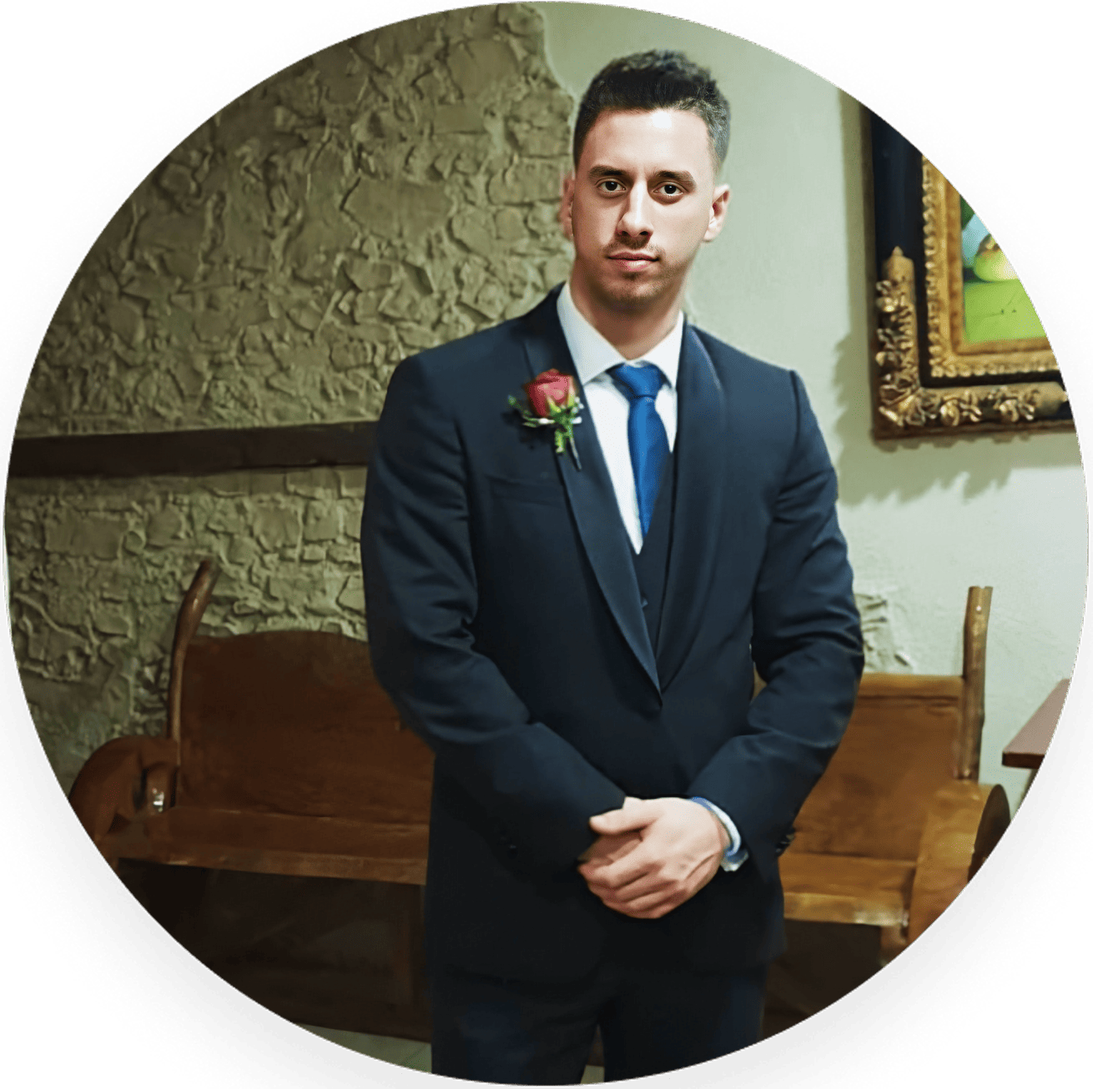
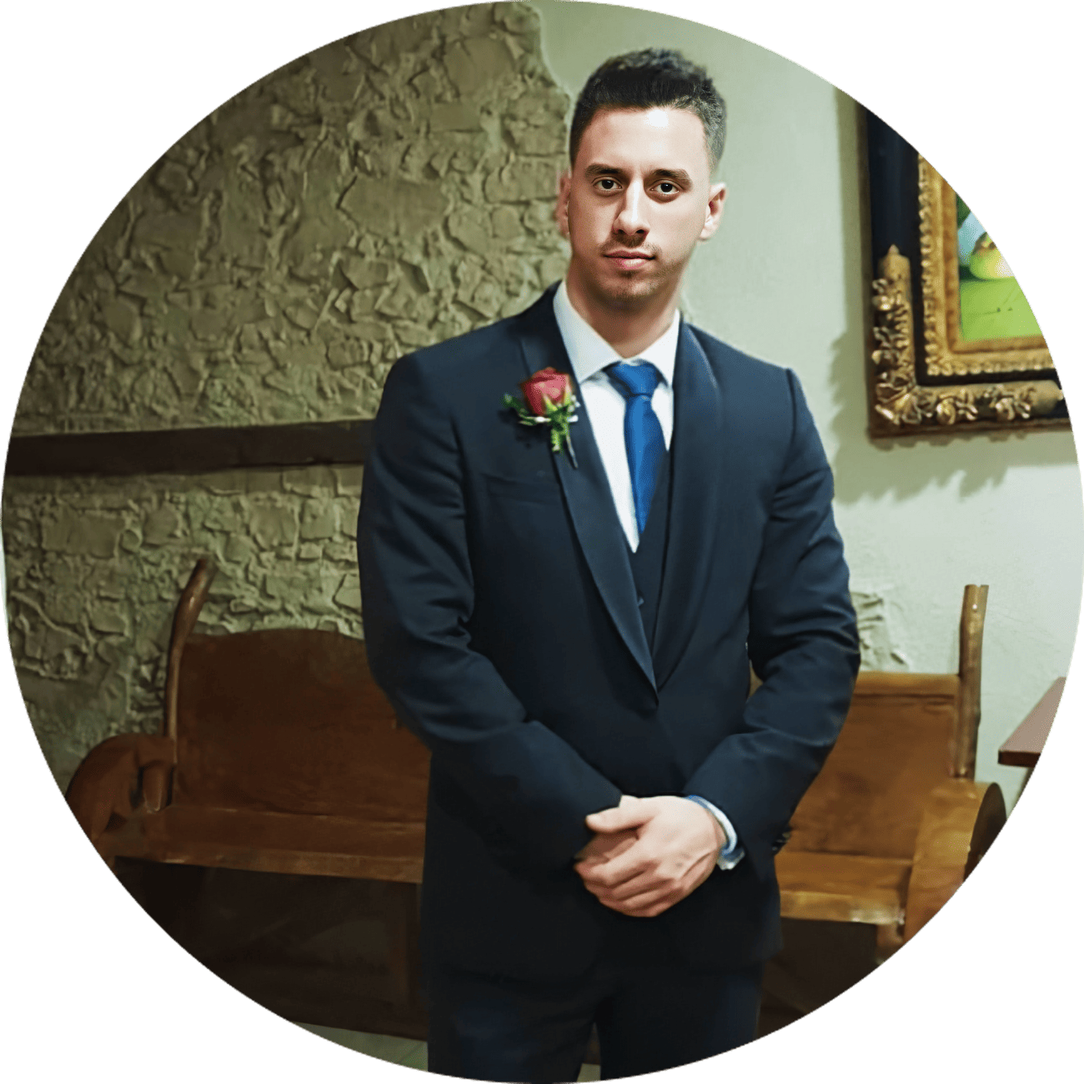
Fixed the photo shadow

diff --git a/css/css-formated/styles.css b/css/css-formated/styles.css
@@ -1,1 +1,1 @@
-::-webkit-scrollbar{width:10px;height:90%;background:#3f5e60;border-radius:20px;-webkit-border-radius:20px;-moz-border-radius:20px;-ms-border-radius:20px;-o-border-radius:20px}::-webkit-scrollbar-track{background:linear-gradient(to bottom, #314546 0%, rgba(63, 94, 96, 0.5058823529) 100%);border-radius:20px;-webkit-border-radius:20px;-moz-border-radius:20px;-ms-border-radius:20px;-o-border-radius:20px}::-webkit-scrollbar-thumb{background:#cfcfcf;border-radius:20px;-webkit-border-radius:20px;-moz-border-radius:20px;-ms-border-radius:20px;-o-border-radius:20px}*{margin:0;padding:0;box-sizing:border-box;-moz-box-sizing:border-box;-webkit-box-sizing:border-box}body{height:100vh;display:flex;flex-direction:column;justify-content:space-between;font-family:"Righteous",cursive;background:linear-gradient(to bottom left, #314546 0%, #3f5e60 50%, #8cb3b6 100%) no-repeat center center fixed;font-size:16px;font-weight:100}.stars-bg{z-index:-100;width:100%;height:100%;position:absolute;top:0;left:0}img{pointer-events:none}header{width:100%;z-index:20;background:linear-gradient(to left, #314647 0%, #3a5356 50%, #3d585b 75%, #405c5e 85%, #426264 100%);position:fixed;top:0;right:0}header nav{display:flex;flex-direction:row;justify-content:end;align-items:center;margin:8px 16px}header nav .desktop-menu{display:flex;justify-content:end;flex-wrap:wrap;list-style:none;gap:40px}header nav .desktop-menu li .current_page{cursor:default;color:#fff}header nav .desktop-menu li .current_page:hover{text-decoration:none}header nav .desktop-menu li a{font-size:20px;text-decoration:none;color:#b4b4b4}header nav .desktop-menu li a:hover{text-decoration:underline;color:#fff}header nav .desktop-menu li a:active{color:#fff;text-decoration:underline}header nav .mobile-menu{display:none;z-index:200;width:100%}header nav .mobile-menu .my-logo{height:20px}header nav .mobile-menu button{background:none;border:none;color:#fff;font-size:20px;cursor:pointer}header nav .mobile-menu .mobile-menu-items{width:18%;padding:8px 16px 24px 24px;display:none;position:absolute;right:0;top:0;display:flex;flex-direction:column;justify-content:space-between;gap:24px;list-style:none;border-radius:0 0 0 10px;-webkit-border-radius:0 0 0 10px;-moz-border-radius:0 0 0 10px;-ms-border-radius:0 0 0 10px;-o-border-radius:0 0 0 10px;background:#e1e1e1;transition:all .5s ease-in-out;-webkit-transition:all .5s ease-in-out;-moz-transition:all .5s ease-in-out;-ms-transition:all .5s ease-in-out;-o-transition:all .5s ease-in-out}header nav .mobile-menu .mobile-menu-items .close-button{color:#314546;font-size:20px;text-align:end;display:inline-block;margin:0;margin-bottom:-16px;padding:0}header nav .mobile-menu .mobile-menu-items .current_page{cursor:default;color:#314546}header nav .mobile-menu .mobile-menu-items .current_page:active{color:#314546}header nav .mobile-menu .mobile-menu-items .current_page:hover{text-decoration:none}header nav .mobile-menu .mobile-menu-items a{font-size:20px;text-decoration:none;color:rgba(45,64,65,.4941176471)}header nav .mobile-menu .mobile-menu-items a:hover{text-decoration:underline;color:#314546}header nav .mobile-menu .mobile-menu-items a:active{color:#fff;text-decoration:underline}header nav .mobile-menu .mobile-menu-items a:active{color:#314546}.main .galaxy-title-container{height:84vh;position:relative;width:100%;margin-bottom:48px;display:flex;flex-direction:row;justify-content:center}.main .galaxy-title-container .title-text{position:absolute;font-size:56px;font-weight:100;word-spacing:10px;transition:all .5s ease-in-out;-webkit-transition:all .5s ease-in-out;-moz-transition:all .5s ease-in-out;-ms-transition:all .5s ease-in-out;-o-transition:all .5s ease-in-out}.main .galaxy-title-container .welcome{left:0}.main .galaxy-title-container .universe{bottom:0;right:0}.main .galaxy-title-container .galaxy{width:50%;transition:all .5s ease-in-out;-webkit-transition:all .5s ease-in-out;-moz-transition:all .5s ease-in-out;-ms-transition:all .5s ease-in-out;-o-transition:all .5s ease-in-out}.main .trabajos-container{height:84vh;display:flex;flex-direction:column;justify-content:flex-start;align-items:center;margin-bottom:40px;font-family:"Righteous",cursive;color:#fff}.main .trabajos-container .trabajos-programacion-container h2,.main .trabajos-container .trabajos-diseno-container h2{font-size:36px;font-weight:100;margin-bottom:20px}.main .trabajos-container .trabajos-programacion-container .trabajos-programacion-row,.main .trabajos-container .trabajos-programacion-container .trabajos-diseno-row,.main .trabajos-container .trabajos-diseno-container .trabajos-programacion-row,.main .trabajos-container .trabajos-diseno-container .trabajos-diseno-row{display:grid;grid-template-columns:1fr 1fr 1fr 1fr;gap:40px;margin-bottom:24px}.main .trabajos-container .trabajos-programacion-container .trabajo,.main .trabajos-container .trabajos-diseno-container .trabajo{cursor:pointer;position:relative}.main .trabajos-container .trabajos-programacion-container .trabajo img,.main .trabajos-container .trabajos-diseno-container .trabajo img{width:22.5vw}.main .trabajos-container .trabajos-programacion-container .trabajo p,.main .trabajos-container .trabajos-diseno-container .trabajo p{color:#e1e1e1;margin:8px 0}.main .trabajos-container .trabajos-programacion-container .trabajo:hover .blur-mask,.main .trabajos-container .trabajos-diseno-container .trabajo:hover .blur-mask{width:100%;height:83.25%;position:absolute;top:0;left:0;background:rgba(75,75,75,.1019607843);border-radius:4%;-webkit-border-radius:4%;-moz-border-radius:4%;-ms-border-radius:4%;-o-border-radius:4%;filter:blur(10px);-webkit-filter:blur(10px)}.main .tarjeta{overflow:auto;display:none;position:fixed;top:auto;left:auto;width:45vw;height:90vh;padding:24px;border-radius:20px;-webkit-border-radius:20px;-moz-border-radius:20px;-ms-border-radius:20px;-o-border-radius:20px;background:linear-gradient(to bottom left, #314546 0%, #3f5e60 50%, #8cb3b6 100%);color:#cfcfcf;box-shadow:0 4px 40px rgba(255,255,255,.05);font-size:16px}.main .tarjeta h3{color:#e1e1e1;font-weight:500;margin-bottom:32px}.main .tarjeta .tarjeta-header{display:flex;flex-direction:row;justify-content:end;align-items:center}.main .tarjeta .tarjeta-header .tarjeta-close-btn{color:#e1e1e1;background:rgba(0,0,0,0);border:none;font-size:20px;cursor:pointer}.main .tarjeta .tarjeta-contenido{margin:24px 0;display:flex;flex-direction:column;gap:6vh}.main .tarjeta .tarjeta-contenido .fotos-tarjeta{display:flex;justify-content:center;align-items:center}.main .tarjeta .tarjeta-contenido .fotos-tarjeta img{width:80%}.main .tarjeta .tarjeta-contenido .logos-tiendas{display:flex;flex-direction:row;justify-content:center;align-items:center;gap:64px}.main .tarjeta .tarjeta-contenido .logos-tiendas img{height:50px}.main .contenido-central{height:80vh;width:100%;margin:0 0 64px 0;display:flex;justify-content:space-between;align-items:center;gap:20px}.main .contenido-central .bio{display:inline-block;width:30%;font-family:"Righteous",cursive;font-size:18px}.main .contenido-central .skills-container{width:30%;display:flex;flex-direction:column;gap:40px}.main .contenido-central .skills-container h2{font-weight:100;word-spacing:10px}.main .contenido-central .skills-container .skills{display:grid;grid-template-columns:1fr 1fr 1fr 1fr;gap:40px}.main .contenido-central .skills-container .skills img{height:75px;width:75px}.main .contenido-central .foto-start{display:none;margin-top:32px;width:70vw}.main .contenido-central .foto-middle{margin-top:64px;width:40%}.main .contact-container{height:84vh;display:flex;flex-direction:column;justify-content:center;align-items:center;font-family:"Righteous",cursive}.main .contact-container .contact-title{font-family:"Monoton",cursive;font-size:48px;font-weight:100;margin-bottom:8px;transition:all .5s ease-in-out;-webkit-transition:all .5s ease-in-out;-moz-transition:all .5s ease-in-out;-ms-transition:all .5s ease-in-out;-o-transition:all .5s ease-in-out}.main .contact-container .send-message{font-size:18px;margin-bottom:32px}.main .contact-container .contact-form{transition:all .5s ease-in-out;-webkit-transition:all .5s ease-in-out;-moz-transition:all .5s ease-in-out;-ms-transition:all .5s ease-in-out;-o-transition:all .5s ease-in-out;width:896px;display:grid;grid-template-columns:repeat(2, 1fr);gap:24px}.main .contact-container .contact-form label{font-size:20px;color:#fff}.main .contact-container .contact-form input,.main .contact-container .contact-form textarea{font-family:"Righteous",cursive;font-weight:100;font-size:20px;border-radius:10px;-webkit-border-radius:10px;-moz-border-radius:10px;-ms-border-radius:10px;-o-border-radius:10px;padding:8px 16px;border:none;outline:none;background:#d9d9d9}.main .contact-container .contact-form input::-moz-placeholder, .main .contact-container .contact-form textarea::-moz-placeholder{color:#8d8d8d}.main .contact-container .contact-form input:-ms-input-placeholder, .main .contact-container .contact-form textarea:-ms-input-placeholder{color:#8d8d8d}.main .contact-container .contact-form input::placeholder,.main .contact-container .contact-form textarea::placeholder{color:#8d8d8d}.main .contact-container .contact-form textarea::-webkit-scrollbar-corner{display:none}.main .contact-container .contact-form textarea::-webkit-resizer{border-radius:0 0 10px 0;-webkit-border-radius:0 0 10px 0;-moz-border-radius:0 0 10px 0;-ms-border-radius:0 0 10px 0;-o-border-radius:0 0 10px 0;background:#d9d9d9}.main .contact-container .contact-form textarea::-webkit-scrollbar{width:10px;height:90%;background:#d9d9d9;border-radius:20px;-webkit-border-radius:20px;-moz-border-radius:20px;-ms-border-radius:20px;-o-border-radius:20px}.main .contact-container .contact-form textarea::-webkit-scrollbar-track{background:#cfcfcf;border-radius:20px;-webkit-border-radius:20px;-moz-border-radius:20px;-ms-border-radius:20px;-o-border-radius:20px}.main .contact-container .contact-form textarea::-webkit-scrollbar-thumb{background:linear-gradient(to bottom, #314546 0%, rgba(63, 94, 96, 0.5058823529) 100%);border-radius:20px;-webkit-border-radius:20px;-moz-border-radius:20px;-ms-border-radius:20px;-o-border-radius:20px}.main .contact-container .contact-form .input-name,.main .contact-container .contact-form .input-email,.main .contact-container .contact-form .input-message{width:436px;display:flex;flex-direction:column;gap:16px}.main .contact-container .contact-form .input-message{grid-column:span 2}.main .contact-container .contact-form .input-message textarea{min-width:896px;max-width:896px;min-height:256px;max-height:256px}.main .contact-container .contact-form .error-name,.main .contact-container .contact-form .error-email{display:none;font-size:18px;margin:0}.main .contact-container .contact-form .error-message{display:none;grid-column:span 2;font-size:18px;margin:0}.main .contact-container .contact-form .btn-submit{display:flex;justify-content:center;align-items:center;margin:16px auto;width:232px;height:48px;grid-column:span 2;background:#c8b160;color:#424242;font-size:20px;border-radius:10px;-webkit-border-radius:10px;-moz-border-radius:10px;-ms-border-radius:10px;-o-border-radius:10px;cursor:pointer;-webkit-touch-callout:none;-webkit-user-select:none;-moz-user-select:none;-ms-user-select:none;user-select:none}.main .contact-container .contact-form .btn-submit:hover{background:#b8a358}.main .contact-container .contact-popup{position:absolute;top:auto;left:auto;width:30%;height:25%;padding:32px;border-radius:10px;-webkit-border-radius:10px;-moz-border-radius:10px;-ms-border-radius:10px;-o-border-radius:10px;background:#d9d9d9;box-shadow:0 4px 20px rgba(0,0,0,.2)}.main .contact-container .contact-popup p{color:#314546;font-size:24px}.main .contact-container .contact-popup i{position:absolute;bottom:24px;left:calc(50% - 24px);color:#298a29;font-size:48px}.main .links-container .title{margin-left:24px;font-size:56px;font-weight:100;transition:all .5s ease-in-out;-webkit-transition:all .5s ease-in-out;-moz-transition:all .5s ease-in-out;-ms-transition:all .5s ease-in-out;-o-transition:all .5s ease-in-out}.main .links-container .links{transition:all .5s ease-in-out;-webkit-transition:all .5s ease-in-out;-moz-transition:all .5s ease-in-out;-ms-transition:all .5s ease-in-out;-o-transition:all .5s ease-in-out;width:512px;height:75vh;margin:0 auto;padding:40px;display:flex;flex-direction:column;justify-content:center;align-items:center;gap:32px;font-family:"Righteous",cursive;font-size:24px}.main .links-container .links .link{display:flex;flex-direction:row;justify-content:space-between;width:100%}.main .links-container .links .link a{color:#fff;text-decoration:none;text-shadow:0px 4px 4px rgba(0,0,0,.25)}.main .links-container .links .link a:hover{text-decoration:underline}.main .links-container .links .link i{font-size:32px;color:#fff}.main .links-container .links .link .fa-instagram{font-size:36px}.main{margin:64px 20px 0 20px;font-family:"Monoton",cursive;color:#b4b4b4;font-size:24px;letter-spacing:1px}footer{margin:0 16px 16px 16px;display:flex;flex-direction:row;justify-content:space-between;position:relative;bottom:0;color:#e1e1e1;transition:all .5s ease-in-out;-webkit-transition:all .5s ease-in-out;-moz-transition:all .5s ease-in-out;-ms-transition:all .5s ease-in-out;-o-transition:all .5s ease-in-out}footer .my-logo{height:20px}@media screen and (max-width: 1450px){.main .galaxy{width:60%}.main .trabajos-container{height:auto}.main .trabajos-container .trabajos-programacion-container .trabajos-programacion-row,.main .trabajos-container .trabajos-programacion-container .trabajos-diseno-row,.main .trabajos-container .trabajos-diseno-container .trabajos-programacion-row,.main .trabajos-container .trabajos-diseno-container .trabajos-diseno-row{display:grid;grid-template-columns:repeat(2, 1fr);gap:20px}.main .trabajos-container .trabajos-programacion-container .trabajos-programacion-row .trabajo img,.main .trabajos-container .trabajos-programacion-container .trabajos-diseno-row .trabajo img,.main .trabajos-container .trabajos-diseno-container .trabajos-programacion-row .trabajo img,.main .trabajos-container .trabajos-diseno-container .trabajos-diseno-row .trabajo img{width:45vw;margin-bottom:0}.main .trabajos-container .trabajos-programacion-container .trabajos-programacion-row .trabajo p,.main .trabajos-container .trabajos-programacion-container .trabajos-diseno-row .trabajo p,.main .trabajos-container .trabajos-diseno-container .trabajos-programacion-row .trabajo p,.main .trabajos-container .trabajos-diseno-container .trabajos-diseno-row .trabajo p{font-size:16px}.main .trabajos-container .trabajos-programacion-container h2,.main .trabajos-container .trabajos-diseno-container h2{font-size:28px}.main .contenido-central .skills-container .skills{display:grid;grid-template-columns:repeat(2, 1fr)}}@media screen and (max-width: 1250px){.main .title-text{font-size:44px}.main .galaxy{width:70%}.main .tarjeta{width:50vw;height:85vh}.main .contenido-central .bio{font-size:16px}.main .contenido-central .skills-container .skills{display:grid;grid-template-columns:repeat(2, 1fr)}.main .contenido-central .skills-container .skills img{width:50px;height:50px}}@media screen and (max-width: 1150px){.main .contact-container .contact-popup{width:40%}}@media screen and (max-width: 1100px){.main .galaxy{width:60%}.main .tarjeta{width:60vw;height:82vh}.main .contenido-central{height:auto;display:flex;flex-direction:column}.main .contenido-central .bio{width:auto;font-size:14px;margin-bottom:40px}.main .contenido-central .skills-container{width:auto;gap:20px}.main .contenido-central .skills-container .skills{display:grid;grid-template-columns:repeat(7, 1fr)}.main .contenido-central .skills-container .skills img{width:50px;height:50px}.main .contenido-central .foto-start{display:block}.main .contenido-central .foto-middle{display:none}}@media screen and (max-width: 900px){.main .contact-container .contact-popup{width:50%}}@media screen and (max-width: 950px){.main .contact-container{height:auto;width:100%;display:flex;flex-direction:column;justify-content:center;align-items:center}.main .contact-container .contact-form{width:100%;margin:0 auto;grid-template-columns:1fr}.main .contact-container .contact-form .input-name,.main .contact-container .contact-form .input-email{width:auto;grid-column:span 2}.main .contact-container .contact-form .input-message{width:auto;grid-column:span 2}.main .contact-container .contact-form .input-message textarea{min-width:100%;max-width:100%;min-height:256px;max-height:256px}}@media screen and (max-width: 850px){header nav .desktop-menu{display:none}header nav .mobile-menu{display:flex;flex-direction:row;justify-content:space-between}header nav .mobile-menu .mobile-menu-button{display:block}header nav .mobile-menu .mobile-menu-items{display:none}.main .galaxy-title-container .galaxy{width:80%}.main .galaxy-title-container .title-text{font-size:20px}.main .trabajos-container .trabajos-programacion-container .trabajos-programacion-row,.main .trabajos-container .trabajos-programacion-container .trabajos-diseno-row,.main .trabajos-container .trabajos-diseno-container .trabajos-programacion-row,.main .trabajos-container .trabajos-diseno-container .trabajos-diseno-row{display:grid;grid-template-columns:1fr;gap:20px}.main .trabajos-container .trabajos-programacion-container .trabajos-programacion-row .trabajo img,.main .trabajos-container .trabajos-programacion-container .trabajos-diseno-row .trabajo img,.main .trabajos-container .trabajos-diseno-container .trabajos-programacion-row .trabajo img,.main .trabajos-container .trabajos-diseno-container .trabajos-diseno-row .trabajo img{width:85vw;margin-bottom:0}.main .tarjeta{width:70vw;height:77vh;font-size:16px}.main .tarjeta h3{font-size:18px}.main .tarjeta .tarjeta-contenido .fotos-tarjeta{display:flex;justify-content:center;align-items:center}.main .tarjeta .tarjeta-contenido .fotos-tarjeta img{width:90%}.main .tarjeta .tarjeta-contenido .logos-tiendas img{height:40px}.main .contenido-central{display:flex;flex-direction:column}.main .contenido-central .bio{width:90%;font-size:14px;margin-bottom:40px}.main .contenido-central .skills-container{gap:20px}.main .contenido-central .skills-container .skills{display:grid;grid-template-columns:repeat(7, 1fr)}.main .contenido-central .skills-container .skills img{width:50px;height:50px}.main .contenido-central .foto-start{display:block}.main .contenido-central .foto-middle{display:none}footer p{font-size:12px}footer .my-logo{display:none}}@media screen and (max-width: 750px){header nav .mobile-menu .mobile-menu-items{width:20%}}@media screen and (max-width: 700px){.main .contact-container .contact-popup{width:60%}}@media screen and (max-width: 650px){header nav .mobile-menu .mobile-menu-items{width:24%}.main .title-text{font-size:32px}.main .tarjeta .tarjeta-contenido .fotos-tarjeta img{width:110%}.main .contenido-central .skills-container .skills{grid-template-columns:repeat(4, 1fr)}.main .contact-container .contact-title{font-size:32px}.main .contact-container p{font-size:16px;margin-bottom:16px}.main .contact-container .contact-form label{font-size:16px}.main .contact-container .contact-form input::-moz-placeholder, .main .contact-container .contact-form textarea::-moz-placeholder{font-size:16px}.main .contact-container .contact-form input:-ms-input-placeholder, .main .contact-container .contact-form textarea:-ms-input-placeholder{font-size:16px}.main .contact-container .contact-form input::placeholder,.main .contact-container .contact-form textarea::placeholder{font-size:16px}.main .contact-container .contact-form .btn-submit{font-size:16px;align-items:flex-end}.main .contact-container .contact-popup p{font-size:20px}}@media screen and (max-width: 550px){header nav .mobile-menu .mobile-menu-items{width:28%}.main .links-container .title{margin-left:0;text-align:center;font-size:40px}.main .links-container .links{width:100%;padding:24px;gap:48px;font-size:16px}.main .links-container .links .link i{font-size:18px;color:#fff}.main .links-container .links .link .fa-instagram{font-size:22px}}@media screen and (max-width: 450px){::-webkit-scrollbar{border-radius:20px;-webkit-border-radius:20px;-moz-border-radius:20px;-ms-border-radius:20px;-o-border-radius:20px}header nav .mobile-menu .mobile-menu-items{width:32%}header nav .mobile-menu .mobile-menu-items a{font-size:18px}.main .galaxy{width:90%}.main .title-text{margin:24px 0;font-size:24px}.main .trabajos-container ::-webkit-scrollbar{display:none}.main .contenido-central .skills-container .skills{grid-template-columns:repeat(2, 1fr)}.main .contact-container .send-message{font-size:10px}.main .contact-container .contact-form label{font-size:px}.main .contact-container .contact-form input,.main .contact-container .contact-form textarea{font-size:16px}.main .contact-container .contact-form .input-name p,.main .contact-container .contact-form .input-email p,.main .contact-container .contact-form .input-message p{font-size:12px;margin:0}.main .contact-container .contact-form .error-name,.main .contact-container .contact-form .error-email,.main .contact-container .contact-form .error-message{font-size:12px;margin:0}.main .contact-container .contact-popup{height:20%}.main .contact-container .contact-popup p{font-size:16px}.main .contact-container .contact-popup i{left:calc(50% - 16px);font-size:32px}footer p{font-size:10px}}
+::-webkit-scrollbar{width:10px;height:90%;background:#3f5e60;border-radius:20px;-webkit-border-radius:20px;-moz-border-radius:20px;-ms-border-radius:20px;-o-border-radius:20px}::-webkit-scrollbar-track{background:linear-gradient(to bottom, #314546 0%, rgba(63, 94, 96, 0.5058823529) 100%);border-radius:20px;-webkit-border-radius:20px;-moz-border-radius:20px;-ms-border-radius:20px;-o-border-radius:20px}::-webkit-scrollbar-thumb{background:#cfcfcf;border-radius:20px;-webkit-border-radius:20px;-moz-border-radius:20px;-ms-border-radius:20px;-o-border-radius:20px}*{margin:0;padding:0;box-sizing:border-box;-moz-box-sizing:border-box;-webkit-box-sizing:border-box}body{height:100vh;display:flex;flex-direction:column;justify-content:space-between;font-family:"Righteous",cursive;background:linear-gradient(to bottom left, #314546 0%, #3f5e60 50%, #8cb3b6 100%) no-repeat center center fixed;font-size:16px;font-weight:100}.stars-bg{z-index:-100;width:100%;height:100%;position:absolute;top:0;left:0}img{pointer-events:none}header{width:100%;z-index:20;background:linear-gradient(to left, #314647 0%, #3a5356 50%, #3d585b 75%, #405c5e 85%, #426264 100%);position:fixed;top:0;right:0}header nav{display:flex;flex-direction:row;justify-content:end;align-items:center;margin:8px 16px}header nav .desktop-menu{display:flex;justify-content:end;flex-wrap:wrap;list-style:none;gap:40px}header nav .desktop-menu li .current_page{cursor:default;color:#fff}header nav .desktop-menu li .current_page:hover{text-decoration:none}header nav .desktop-menu li a{font-size:20px;text-decoration:none;color:#b4b4b4}header nav .desktop-menu li a:hover{text-decoration:underline;color:#fff}header nav .desktop-menu li a:active{color:#fff;text-decoration:underline}header nav .mobile-menu{display:none;z-index:200;width:100%}header nav .mobile-menu .my-logo{height:20px}header nav .mobile-menu button{background:none;border:none;color:#fff;font-size:20px;cursor:pointer}header nav .mobile-menu .mobile-menu-items{width:18%;padding:8px 16px 24px 24px;display:none;position:absolute;right:0;top:0;display:flex;flex-direction:column;justify-content:space-between;gap:24px;list-style:none;border-radius:0 0 0 10px;-webkit-border-radius:0 0 0 10px;-moz-border-radius:0 0 0 10px;-ms-border-radius:0 0 0 10px;-o-border-radius:0 0 0 10px;background:#e1e1e1;transition:all .5s ease-in-out;-webkit-transition:all .5s ease-in-out;-moz-transition:all .5s ease-in-out;-ms-transition:all .5s ease-in-out;-o-transition:all .5s ease-in-out}header nav .mobile-menu .mobile-menu-items .close-button{color:#314546;font-size:20px;text-align:end;display:inline-block;margin:0;margin-bottom:-16px;padding:0}header nav .mobile-menu .mobile-menu-items .current_page{cursor:default;color:#314546}header nav .mobile-menu .mobile-menu-items .current_page:active{color:#314546}header nav .mobile-menu .mobile-menu-items .current_page:hover{text-decoration:none}header nav .mobile-menu .mobile-menu-items a{font-size:20px;text-decoration:none;color:rgba(45,64,65,.4941176471)}header nav .mobile-menu .mobile-menu-items a:hover{text-decoration:underline;color:#314546}header nav .mobile-menu .mobile-menu-items a:active{color:#fff;text-decoration:underline}header nav .mobile-menu .mobile-menu-items a:active{color:#314546}.main .galaxy-title-container{height:84vh;position:relative;width:100%;margin-bottom:48px;display:flex;flex-direction:row;justify-content:center}.main .galaxy-title-container .title-text{position:absolute;font-size:56px;font-weight:100;word-spacing:10px;transition:all .5s ease-in-out;-webkit-transition:all .5s ease-in-out;-moz-transition:all .5s ease-in-out;-ms-transition:all .5s ease-in-out;-o-transition:all .5s ease-in-out}.main .galaxy-title-container .welcome{left:0}.main .galaxy-title-container .universe{bottom:0;right:0}.main .galaxy-title-container .galaxy{width:50%;transition:all .5s ease-in-out;-webkit-transition:all .5s ease-in-out;-moz-transition:all .5s ease-in-out;-ms-transition:all .5s ease-in-out;-o-transition:all .5s ease-in-out}.main .trabajos-container{height:84vh;display:flex;flex-direction:column;justify-content:flex-start;align-items:center;margin-bottom:40px;font-family:"Righteous",cursive;color:#fff}.main .trabajos-container .trabajos-programacion-container h2,.main .trabajos-container .trabajos-diseno-container h2{font-size:36px;font-weight:100;margin-bottom:20px}.main .trabajos-container .trabajos-programacion-container .trabajos-programacion-row,.main .trabajos-container .trabajos-programacion-container .trabajos-diseno-row,.main .trabajos-container .trabajos-diseno-container .trabajos-programacion-row,.main .trabajos-container .trabajos-diseno-container .trabajos-diseno-row{display:grid;grid-template-columns:1fr 1fr 1fr 1fr;gap:40px;margin-bottom:24px}.main .trabajos-container .trabajos-programacion-container .trabajo,.main .trabajos-container .trabajos-diseno-container .trabajo{cursor:pointer;position:relative}.main .trabajos-container .trabajos-programacion-container .trabajo img,.main .trabajos-container .trabajos-diseno-container .trabajo img{width:22.5vw}.main .trabajos-container .trabajos-programacion-container .trabajo p,.main .trabajos-container .trabajos-diseno-container .trabajo p{color:#e1e1e1;margin:8px 0}.main .trabajos-container .trabajos-programacion-container .trabajo:hover .blur-mask,.main .trabajos-container .trabajos-diseno-container .trabajo:hover .blur-mask{width:100%;height:83.25%;position:absolute;top:0;left:0;background:rgba(75,75,75,.1019607843);border-radius:4%;-webkit-border-radius:4%;-moz-border-radius:4%;-ms-border-radius:4%;-o-border-radius:4%;filter:blur(10px);-webkit-filter:blur(10px)}.main .tarjeta{overflow:auto;display:none;position:fixed;top:auto;left:auto;width:45vw;height:90vh;padding:24px;border-radius:20px;-webkit-border-radius:20px;-moz-border-radius:20px;-ms-border-radius:20px;-o-border-radius:20px;background:linear-gradient(to bottom left, #314546 0%, #3f5e60 50%, #8cb3b6 100%);color:#cfcfcf;box-shadow:0 4px 40px rgba(255,255,255,.05);font-size:16px}.main .tarjeta h3{color:#e1e1e1;font-weight:500;margin-bottom:32px}.main .tarjeta .tarjeta-header{display:flex;flex-direction:row;justify-content:end;align-items:center}.main .tarjeta .tarjeta-header .tarjeta-close-btn{color:#e1e1e1;background:rgba(0,0,0,0);border:none;font-size:20px;cursor:pointer}.main .tarjeta .tarjeta-contenido{margin:24px 0;display:flex;flex-direction:column;gap:6vh}.main .tarjeta .tarjeta-contenido .fotos-tarjeta{display:flex;justify-content:center;align-items:center}.main .tarjeta .tarjeta-contenido .fotos-tarjeta img{width:80%}.main .tarjeta .tarjeta-contenido .logos-tiendas{display:flex;flex-direction:row;justify-content:center;align-items:center;gap:64px}.main .tarjeta .tarjeta-contenido .logos-tiendas img{height:50px}.main .contenido-central{height:80vh;width:100%;margin:0 0 64px 0;display:flex;justify-content:space-between;align-items:center;gap:20px}.main .contenido-central .bio{display:inline-block;width:30%;font-family:"Righteous",cursive;font-size:18px}.main .contenido-central .skills-container{width:30%;display:flex;flex-direction:column;gap:40px}.main .contenido-central .skills-container h2{font-weight:100;word-spacing:10px}.main .contenido-central .skills-container .skills{display:grid;grid-template-columns:1fr 1fr 1fr 1fr;gap:40px}.main .contenido-central .skills-container .skills img{height:75px;width:75px}.main .contenido-central .foto-start{display:none;margin-top:32px;width:70vw}.main .contenido-central .foto-middle{margin-top:64px;width:40%;box-shadow:0 25px 50px rgba(0,0,0,.1);border-radius:50%;-webkit-border-radius:50%;-moz-border-radius:50%;-ms-border-radius:50%;-o-border-radius:50%}.main .contact-container{height:84vh;display:flex;flex-direction:column;justify-content:center;align-items:center;font-family:"Righteous",cursive}.main .contact-container .contact-title{font-family:"Monoton",cursive;font-size:48px;font-weight:100;margin-bottom:8px;transition:all .5s ease-in-out;-webkit-transition:all .5s ease-in-out;-moz-transition:all .5s ease-in-out;-ms-transition:all .5s ease-in-out;-o-transition:all .5s ease-in-out}.main .contact-container .send-message{font-size:18px;margin-bottom:32px}.main .contact-container .contact-form{transition:all .5s ease-in-out;-webkit-transition:all .5s ease-in-out;-moz-transition:all .5s ease-in-out;-ms-transition:all .5s ease-in-out;-o-transition:all .5s ease-in-out;width:896px;display:grid;grid-template-columns:repeat(2, 1fr);gap:24px}.main .contact-container .contact-form label{font-size:20px;color:#fff}.main .contact-container .contact-form input,.main .contact-container .contact-form textarea{font-family:"Righteous",cursive;font-weight:100;font-size:20px;border-radius:10px;-webkit-border-radius:10px;-moz-border-radius:10px;-ms-border-radius:10px;-o-border-radius:10px;padding:8px 16px;border:none;outline:none;background:#d9d9d9}.main .contact-container .contact-form input::-moz-placeholder, .main .contact-container .contact-form textarea::-moz-placeholder{color:#8d8d8d}.main .contact-container .contact-form input:-ms-input-placeholder, .main .contact-container .contact-form textarea:-ms-input-placeholder{color:#8d8d8d}.main .contact-container .contact-form input::placeholder,.main .contact-container .contact-form textarea::placeholder{color:#8d8d8d}.main .contact-container .contact-form textarea::-webkit-scrollbar-corner{display:none}.main .contact-container .contact-form textarea::-webkit-resizer{border-radius:0 0 10px 0;-webkit-border-radius:0 0 10px 0;-moz-border-radius:0 0 10px 0;-ms-border-radius:0 0 10px 0;-o-border-radius:0 0 10px 0;background:#d9d9d9}.main .contact-container .contact-form textarea::-webkit-scrollbar{width:10px;height:90%;background:#d9d9d9;border-radius:20px;-webkit-border-radius:20px;-moz-border-radius:20px;-ms-border-radius:20px;-o-border-radius:20px}.main .contact-container .contact-form textarea::-webkit-scrollbar-track{background:#cfcfcf;border-radius:20px;-webkit-border-radius:20px;-moz-border-radius:20px;-ms-border-radius:20px;-o-border-radius:20px}.main .contact-container .contact-form textarea::-webkit-scrollbar-thumb{background:linear-gradient(to bottom, #314546 0%, rgba(63, 94, 96, 0.5058823529) 100%);border-radius:20px;-webkit-border-radius:20px;-moz-border-radius:20px;-ms-border-radius:20px;-o-border-radius:20px}.main .contact-container .contact-form .input-name,.main .contact-container .contact-form .input-email,.main .contact-container .contact-form .input-message{width:436px;display:flex;flex-direction:column;gap:16px}.main .contact-container .contact-form .input-message{grid-column:span 2}.main .contact-container .contact-form .input-message textarea{min-width:896px;max-width:896px;min-height:256px;max-height:256px}.main .contact-container .contact-form .error-name,.main .contact-container .contact-form .error-email{display:none;font-size:18px;margin:0}.main .contact-container .contact-form .error-message{display:none;grid-column:span 2;font-size:18px;margin:0}.main .contact-container .contact-form .btn-submit{display:flex;justify-content:center;align-items:center;margin:16px auto;width:232px;height:48px;grid-column:span 2;background:#c8b160;color:#424242;font-size:20px;border-radius:10px;-webkit-border-radius:10px;-moz-border-radius:10px;-ms-border-radius:10px;-o-border-radius:10px;cursor:pointer;-webkit-touch-callout:none;-webkit-user-select:none;-moz-user-select:none;-ms-user-select:none;user-select:none}.main .contact-container .contact-form .btn-submit:hover{background:#b8a358}.main .contact-container .contact-popup{position:absolute;top:auto;left:auto;width:30%;height:25%;padding:32px;border-radius:10px;-webkit-border-radius:10px;-moz-border-radius:10px;-ms-border-radius:10px;-o-border-radius:10px;background:#d9d9d9;box-shadow:0 4px 20px rgba(0,0,0,.2)}.main .contact-container .contact-popup p{color:#314546;font-size:24px}.main .contact-container .contact-popup i{position:absolute;bottom:24px;left:calc(50% - 24px);color:#298a29;font-size:48px}.main .links-container .title{margin-left:24px;font-size:56px;font-weight:100;transition:all .5s ease-in-out;-webkit-transition:all .5s ease-in-out;-moz-transition:all .5s ease-in-out;-ms-transition:all .5s ease-in-out;-o-transition:all .5s ease-in-out}.main .links-container .links{transition:all .5s ease-in-out;-webkit-transition:all .5s ease-in-out;-moz-transition:all .5s ease-in-out;-ms-transition:all .5s ease-in-out;-o-transition:all .5s ease-in-out;width:512px;height:75vh;margin:0 auto;padding:40px;display:flex;flex-direction:column;justify-content:center;align-items:center;gap:32px;font-family:"Righteous",cursive;font-size:24px}.main .links-container .links .link{display:flex;flex-direction:row;justify-content:space-between;width:100%}.main .links-container .links .link a{color:#fff;text-decoration:none;text-shadow:0px 4px 4px rgba(0,0,0,.25)}.main .links-container .links .link a:hover{text-decoration:underline}.main .links-container .links .link i{font-size:32px;color:#fff}.main .links-container .links .link .fa-instagram{font-size:36px}.main{margin:64px 20px 0 20px;font-family:"Monoton",cursive;color:#b4b4b4;font-size:24px;letter-spacing:1px}footer{margin:0 16px 16px 16px;display:flex;flex-direction:row;justify-content:space-between;position:relative;bottom:0;color:#e1e1e1;transition:all .5s ease-in-out;-webkit-transition:all .5s ease-in-out;-moz-transition:all .5s ease-in-out;-ms-transition:all .5s ease-in-out;-o-transition:all .5s ease-in-out}footer .my-logo{height:20px}@media screen and (max-width: 1450px){.main .galaxy{width:60%}.main .trabajos-container{height:auto}.main .trabajos-container .trabajos-programacion-container .trabajos-programacion-row,.main .trabajos-container .trabajos-programacion-container .trabajos-diseno-row,.main .trabajos-container .trabajos-diseno-container .trabajos-programacion-row,.main .trabajos-container .trabajos-diseno-container .trabajos-diseno-row{display:grid;grid-template-columns:repeat(2, 1fr);gap:20px}.main .trabajos-container .trabajos-programacion-container .trabajos-programacion-row .trabajo img,.main .trabajos-container .trabajos-programacion-container .trabajos-diseno-row .trabajo img,.main .trabajos-container .trabajos-diseno-container .trabajos-programacion-row .trabajo img,.main .trabajos-container .trabajos-diseno-container .trabajos-diseno-row .trabajo img{width:45vw;margin-bottom:0}.main .trabajos-container .trabajos-programacion-container .trabajos-programacion-row .trabajo p,.main .trabajos-container .trabajos-programacion-container .trabajos-diseno-row .trabajo p,.main .trabajos-container .trabajos-diseno-container .trabajos-programacion-row .trabajo p,.main .trabajos-container .trabajos-diseno-container .trabajos-diseno-row .trabajo p{font-size:16px}.main .trabajos-container .trabajos-programacion-container h2,.main .trabajos-container .trabajos-diseno-container h2{font-size:28px}.main .contenido-central .skills-container .skills{display:grid;grid-template-columns:repeat(2, 1fr)}}@media screen and (max-width: 1250px){.main .title-text{font-size:44px}.main .galaxy{width:70%}.main .tarjeta{width:50vw;height:85vh}.main .contenido-central .bio{font-size:16px}.main .contenido-central .skills-container .skills{display:grid;grid-template-columns:repeat(2, 1fr)}.main .contenido-central .skills-container .skills img{width:50px;height:50px}}@media screen and (max-width: 1150px){.main .contact-container .contact-popup{width:40%}}@media screen and (max-width: 1100px){.main .galaxy{width:60%}.main .tarjeta{width:60vw;height:82vh}.main .contenido-central{height:auto;display:flex;flex-direction:column}.main .contenido-central .bio{width:auto;font-size:14px;margin-bottom:40px}.main .contenido-central .skills-container{width:auto;gap:20px}.main .contenido-central .skills-container .skills{display:grid;grid-template-columns:repeat(7, 1fr)}.main .contenido-central .skills-container .skills img{width:50px;height:50px}.main .contenido-central .foto-start{display:block}.main .contenido-central .foto-middle{display:none}}@media screen and (max-width: 900px){.main .contact-container .contact-popup{width:50%}}@media screen and (max-width: 950px){.main .contact-container{height:auto;width:100%;display:flex;flex-direction:column;justify-content:center;align-items:center}.main .contact-container .contact-form{width:100%;margin:0 auto;grid-template-columns:1fr}.main .contact-container .contact-form .input-name,.main .contact-container .contact-form .input-email{width:auto;grid-column:span 2}.main .contact-container .contact-form .input-message{width:auto;grid-column:span 2}.main .contact-container .contact-form .input-message textarea{min-width:100%;max-width:100%;min-height:256px;max-height:256px}}@media screen and (max-width: 850px){header nav .desktop-menu{display:none}header nav .mobile-menu{display:flex;flex-direction:row;justify-content:space-between}header nav .mobile-menu .mobile-menu-button{display:block}header nav .mobile-menu .mobile-menu-items{display:none}.main .galaxy-title-container .galaxy{width:80%}.main .galaxy-title-container .title-text{font-size:20px}.main .trabajos-container .trabajos-programacion-container .trabajos-programacion-row,.main .trabajos-container .trabajos-programacion-container .trabajos-diseno-row,.main .trabajos-container .trabajos-diseno-container .trabajos-programacion-row,.main .trabajos-container .trabajos-diseno-container .trabajos-diseno-row{display:grid;grid-template-columns:1fr;gap:20px}.main .trabajos-container .trabajos-programacion-container .trabajos-programacion-row .trabajo img,.main .trabajos-container .trabajos-programacion-container .trabajos-diseno-row .trabajo img,.main .trabajos-container .trabajos-diseno-container .trabajos-programacion-row .trabajo img,.main .trabajos-container .trabajos-diseno-container .trabajos-diseno-row .trabajo img{width:85vw;margin-bottom:0}.main .tarjeta{width:70vw;height:77vh;font-size:16px}.main .tarjeta h3{font-size:18px}.main .tarjeta .tarjeta-contenido .fotos-tarjeta{display:flex;justify-content:center;align-items:center}.main .tarjeta .tarjeta-contenido .fotos-tarjeta img{width:90%}.main .tarjeta .tarjeta-contenido .logos-tiendas img{height:40px}.main .contenido-central{display:flex;flex-direction:column}.main .contenido-central .bio{width:90%;font-size:14px;margin-bottom:40px}.main .contenido-central .skills-container{gap:20px}.main .contenido-central .skills-container .skills{display:grid;grid-template-columns:repeat(7, 1fr)}.main .contenido-central .skills-container .skills img{width:50px;height:50px}.main .contenido-central .foto-start{display:block}.main .contenido-central .foto-middle{display:none}footer p{font-size:12px}footer .my-logo{display:none}}@media screen and (max-width: 750px){header nav .mobile-menu .mobile-menu-items{width:20%}}@media screen and (max-width: 700px){.main .contact-container .contact-popup{width:60%}}@media screen and (max-width: 650px){header nav .mobile-menu .mobile-menu-items{width:24%}.main .title-text{font-size:32px}.main .tarjeta .tarjeta-contenido .fotos-tarjeta img{width:110%}.main .contenido-central .skills-container .skills{grid-template-columns:repeat(4, 1fr)}.main .contact-container .contact-title{font-size:32px}.main .contact-container p{font-size:16px;margin-bottom:16px}.main .contact-container .contact-form label{font-size:16px}.main .contact-container .contact-form input::-moz-placeholder, .main .contact-container .contact-form textarea::-moz-placeholder{font-size:16px}.main .contact-container .contact-form input:-ms-input-placeholder, .main .contact-container .contact-form textarea:-ms-input-placeholder{font-size:16px}.main .contact-container .contact-form input::placeholder,.main .contact-container .contact-form textarea::placeholder{font-size:16px}.main .contact-container .contact-form .btn-submit{font-size:16px;align-items:flex-end}.main .contact-container .contact-popup p{font-size:20px}}@media screen and (max-width: 550px){header nav .mobile-menu .mobile-menu-items{width:28%}.main .links-container .title{margin-left:0;text-align:center;font-size:40px}.main .links-container .links{width:100%;padding:24px;gap:48px;font-size:16px}.main .links-container .links .link i{font-size:18px;color:#fff}.main .links-container .links .link .fa-instagram{font-size:22px}}@media screen and (max-width: 450px){::-webkit-scrollbar{border-radius:20px;-webkit-border-radius:20px;-moz-border-radius:20px;-ms-border-radius:20px;-o-border-radius:20px}header nav .mobile-menu .mobile-menu-items{width:32%}header nav .mobile-menu .mobile-menu-items a{font-size:18px}.main .galaxy{width:90%}.main .title-text{margin:24px 0;font-size:24px}.main .trabajos-container ::-webkit-scrollbar{display:none}.main .contenido-central .skills-container .skills{grid-template-columns:repeat(2, 1fr)}.main .contact-container .send-message{font-size:10px}.main .contact-container .contact-form label{font-size:px}.main .contact-container .contact-form input,.main .contact-container .contact-form textarea{font-size:16px}.main .contact-container .contact-form .input-name p,.main .contact-container .contact-form .input-email p,.main .contact-container .contact-form .input-message p{font-size:12px;margin:0}.main .contact-container .contact-form .error-name,.main .contact-container .contact-form .error-email,.main .contact-container .contact-form .error-message{font-size:12px;margin:0}.main .contact-container .contact-popup{height:20%}.main .contact-container .contact-popup p{font-size:16px}.main .contact-container .contact-popup i{left:calc(50% - 16px);font-size:32px}footer p{font-size:10px}}

diff --git a/css/_about.scss b/css/_about.scss
@@ -44,6 +44,12 @@
     .foto-middle {
       margin-top: 64px;
       width: 40%;
+      box-shadow: 0 25px 50px rgba(0, 0, 0, 0.1);
+      border-radius: 50%;
+      -webkit-border-radius: 50%;
+      -moz-border-radius: 50%;
+      -ms-border-radius: 50%;
+      -o-border-radius: 50%;
     }
   }
 }
